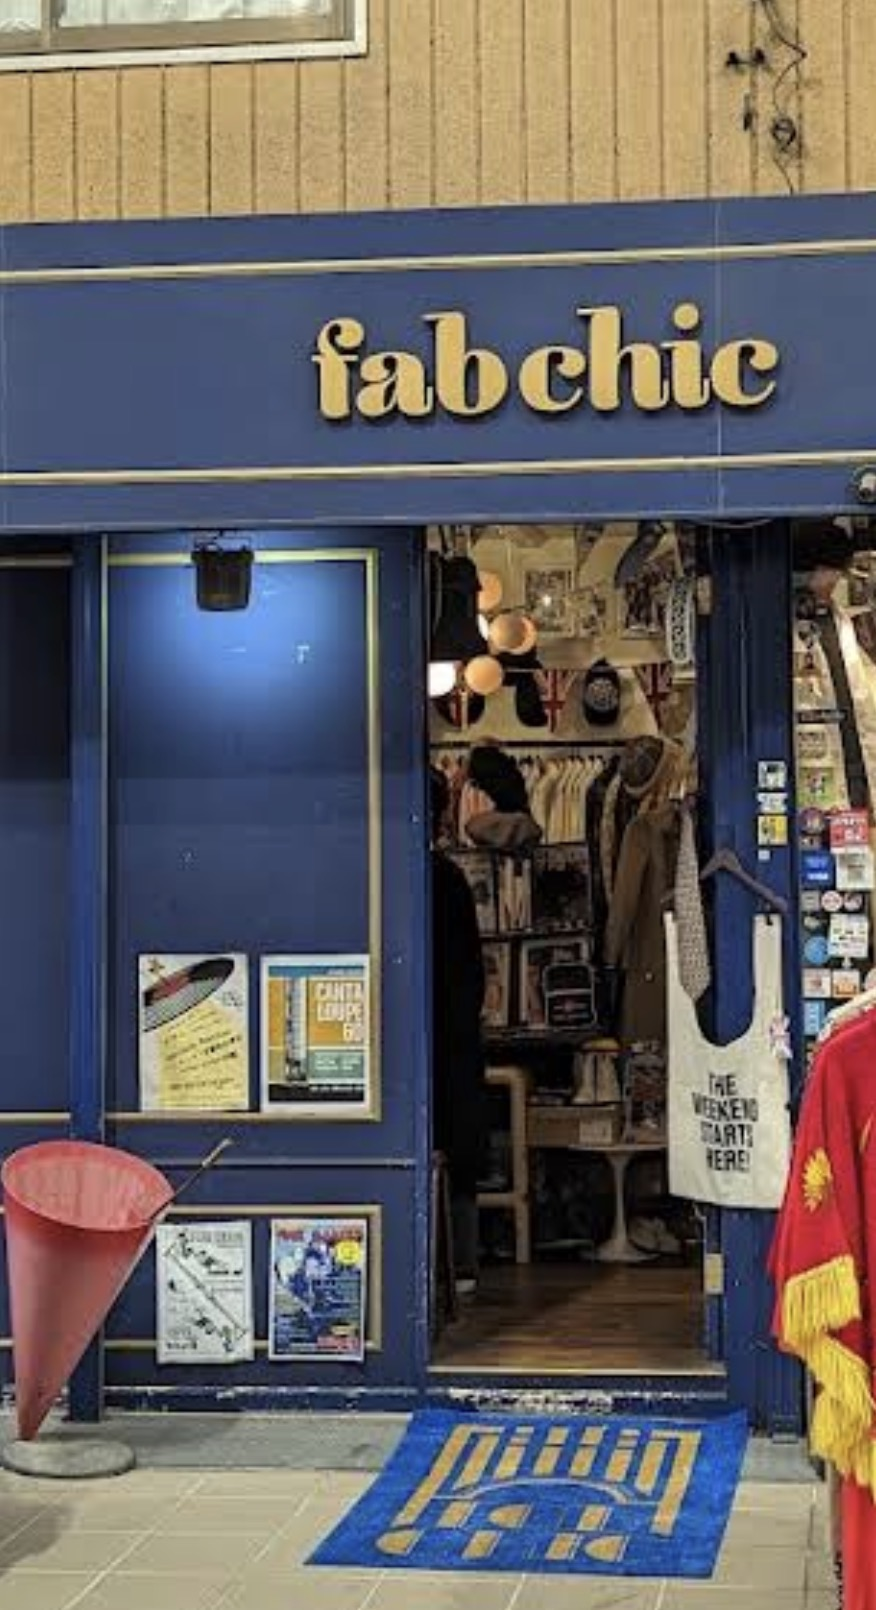
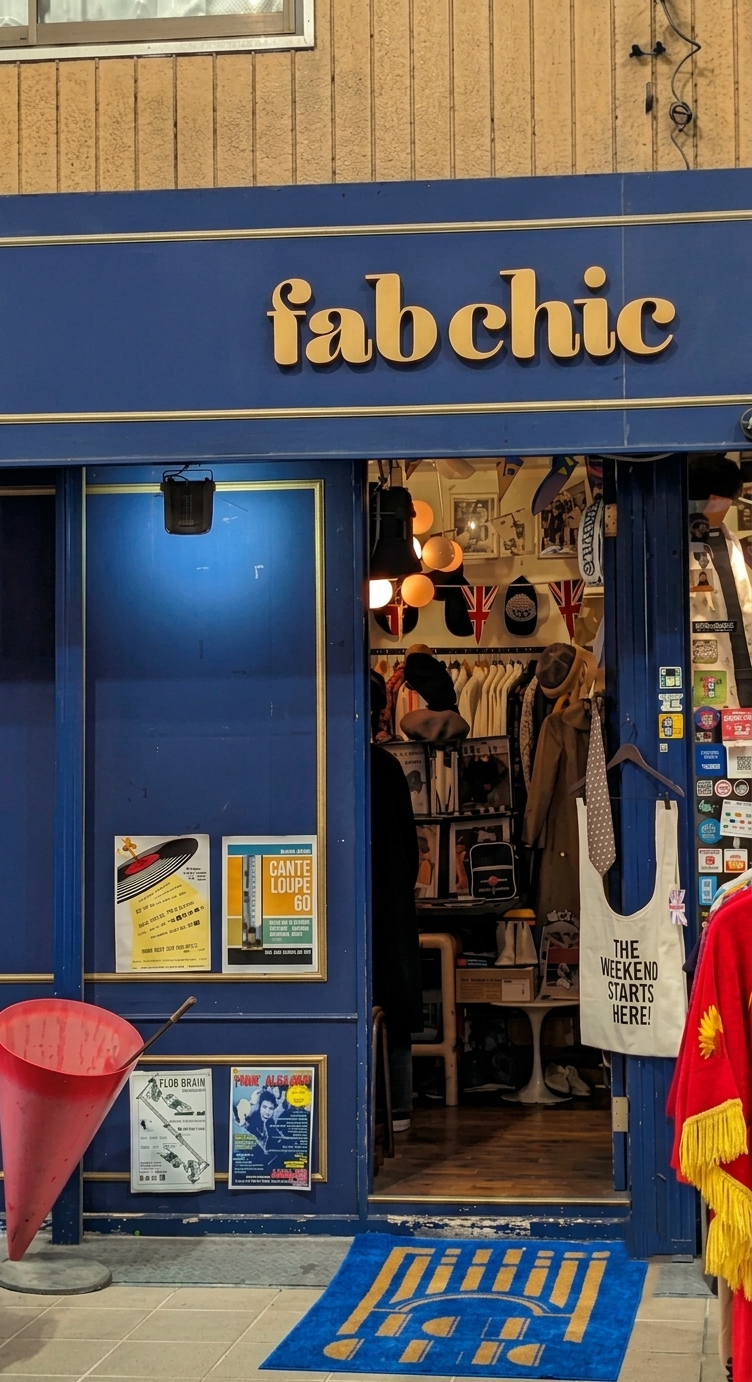
14:50

diff --git a/lib/demo/demo_config.dart b/lib/demo/demo_config.dart
@@ -137,109 +137,29 @@ class DemoConfig {
   ];
 
   // ── opponent（赤）が通るルート ──
-  //   大須観音駅 →（経由地）→ ふくすけや → WEGO 大須店 の徒歩ルートを
-  //   道なりに 100 点でサンプリングしたもの（OSM/OSRM foot、約 876m）。
+  //   大須観音駅 → 手水舎 → ふくすけや → WEGO 大須店 → サーカス の徒歩ルートを
+  //   道なりに 100 点でサンプリングしたもの（OSM/OSRM foot、約 1.4km）。
   static const List<LatLng> opponentRoute = [
-    LatLng(35.160408, 136.898182),
-    LatLng(35.1604049, 136.8980861),
-    LatLng(35.1603298, 136.8980663),
-    LatLng(35.1602502, 136.8980692),
-    LatLng(35.1601706, 136.8980719),
-    LatLng(35.1600911, 136.8980744),
-    LatLng(35.1600115, 136.8980767),
-    LatLng(35.1599319, 136.8980789),
-    LatLng(35.1598524, 136.8980814),
-    LatLng(35.1597728, 136.8980838),
-    LatLng(35.1596932, 136.8980863),
-    LatLng(35.1597047, 136.898109),
-    LatLng(35.1597783, 136.8981126),
-    LatLng(35.1597827, 136.8982098),
-    LatLng(35.159787, 136.898307),
-    LatLng(35.1597914, 136.8984042),
-    LatLng(35.1597957, 136.8985014),
-    LatLng(35.1597409, 136.898534),
-    LatLng(35.159677, 136.8985577),
-    LatLng(35.1595975, 136.8985637),
-    LatLng(35.1595181, 136.8985698),
-    LatLng(35.1595019, 136.8986486),
-    LatLng(35.1595015, 136.898746),
-    LatLng(35.1595011, 136.8988433),
-    LatLng(35.1595008, 136.8989407),
-    LatLng(35.1595005, 136.8990381),
-    LatLng(35.1595002, 136.8991354),
-    LatLng(35.1594994, 136.8992327),
-    LatLng(35.1594973, 136.8993301),
-    LatLng(35.1594646, 136.8993924),
-    LatLng(35.1593933, 136.8994356),
-    LatLng(35.1593159, 136.8994307),
-    LatLng(35.159238, 136.8994107),
-    LatLng(35.1591682, 136.8993989),
-    LatLng(35.1591522, 136.8994943),
-    LatLng(35.1591361, 136.8995896),
-    LatLng(35.1591184, 136.8996845),
-    LatLng(35.1590965, 136.8997781),
-    LatLng(35.1590746, 136.8998717),
-    LatLng(35.1590528, 136.8999653),
-    LatLng(35.1590308, 136.9000589),
-    LatLng(35.1590087, 136.9001524),
-    LatLng(35.1589866, 136.9002459),
-    LatLng(35.1589646, 136.9003395),
-    LatLng(35.1589426, 136.900433),
-    LatLng(35.1589206, 136.9005266),
-    LatLng(35.1588986, 136.9006201),
-    LatLng(35.1588765, 136.9007137),
-    LatLng(35.158855, 136.9008074),
-    LatLng(35.158835, 136.9009016),
-    LatLng(35.1588128, 136.9009951),
-    LatLng(35.1587897, 136.9010883),
-    LatLng(35.1587666, 136.9011814),
-    LatLng(35.1587435, 136.9012746),
-    LatLng(35.1587204, 136.9013678),
-    LatLng(35.1587135, 136.9014489),
-    LatLng(35.1587916, 136.901468),
-    LatLng(35.1588697, 136.9014867),
-    LatLng(35.1589478, 136.9015055),
-    LatLng(35.1590259, 136.9015243),
-    LatLng(35.159104, 136.901543),
-    LatLng(35.1591821, 136.9015618),
-    LatLng(35.1592599, 136.9015819),
-    LatLng(35.1593382, 136.9015989),
-    LatLng(35.1594171, 136.901612),
-    LatLng(35.1594959, 136.9016252),
-    LatLng(35.1595748, 136.9016383),
-    LatLng(35.1596537, 136.9016514),
-    LatLng(35.1597325, 136.9016646),
-    LatLng(35.1598114, 136.9016777),
-    LatLng(35.1598902, 136.9016916),
-    LatLng(35.159949, 136.9017374),
-    LatLng(35.1600277, 136.9017515),
-    LatLng(35.1601065, 136.9017657),
-    LatLng(35.1601852, 136.9017798),
-    LatLng(35.160264, 136.9017939),
-    LatLng(35.1603427, 136.9018081),
-    LatLng(35.1604215, 136.9018222),
-    LatLng(35.1605002, 136.9018368),
-    LatLng(35.1605135, 136.901911),
-    LatLng(35.1605569, 136.9019588),
-    LatLng(35.1606181, 136.9020024),
-    LatLng(35.1606223, 136.9020856),
-    LatLng(35.1606128, 136.9021823),
-    LatLng(35.1606033, 136.9022789),
-    LatLng(35.1605938, 136.9023756),
-    LatLng(35.1605842, 136.9024722),
-    LatLng(35.1605747, 136.9025689),
-    LatLng(35.1605652, 136.9026655),
-    LatLng(35.1605557, 136.9027622),
-    LatLng(35.1605462, 136.9028589),
-    LatLng(35.1605366, 136.9029555),
-    LatLng(35.160529, 136.9030523),
-    LatLng(35.1605467, 136.903028),
-    LatLng(35.1605559, 136.9029314),
-    LatLng(35.1605653, 136.9028347),
-    LatLng(35.1605748, 136.902738),
-    LatLng(35.1605842, 136.9026413),
-    LatLng(35.1605936, 136.9025447),
-    LatLng(35.160603, 136.902448),
+    LatLng(35.160359, 136.898186), LatLng(35.1604119, 136.8982782), LatLng(35.160393, 136.8984064), LatLng(35.1602652, 136.8984135), LatLng(35.1601376, 136.8984218),
+    LatLng(35.1600099, 136.8984308), LatLng(35.1598823, 136.8984396), LatLng(35.1597546, 136.8984481), LatLng(35.1596269, 136.8984566), LatLng(35.1594993, 136.8984652),
+    LatLng(35.1593716, 136.8984738), LatLng(35.1593086, 136.8985742), LatLng(35.1592824, 136.8987273), LatLng(35.1592562, 136.8988804), LatLng(35.1592301, 136.8990335),
+    LatLng(35.1592041, 136.8991866), LatLng(35.1591782, 136.8993397), LatLng(35.1591524, 136.8994929), LatLng(35.1591267, 136.8996461), LatLng(35.1592422, 136.8996849),
+    LatLng(35.1593676, 136.8997157), LatLng(35.1594929, 136.8997465), LatLng(35.1594037, 136.8997247), LatLng(35.1592784, 136.8996938), LatLng(35.1591531, 136.8996629),
+    LatLng(35.1590977, 136.8997727), LatLng(35.1590626, 136.8999231), LatLng(35.1590273, 136.9000734), LatLng(35.1589076, 136.9000549), LatLng(35.1587821, 136.9000248),
+    LatLng(35.1586566, 136.8999947), LatLng(35.1585311, 136.8999652), LatLng(35.1584186, 136.8999672), LatLng(35.1583936, 136.9001205), LatLng(35.1583686, 136.9002739),
+    LatLng(35.1583436, 136.9004273), LatLng(35.1583186, 136.9005807), LatLng(35.1583675, 136.9006769), LatLng(35.1583447, 136.9008265), LatLng(35.1583176, 136.9009793),
+    LatLng(35.1582905, 136.9011321), LatLng(35.1582633, 136.901285), LatLng(35.1582623, 136.9014291), LatLng(35.158387, 136.9014634), LatLng(35.1585117, 136.9014978),
+    LatLng(35.1586364, 136.9015323), LatLng(35.1587617, 136.9015636), LatLng(35.1588872, 136.9015932), LatLng(35.1590128, 136.9016228), LatLng(35.1591383, 136.9016524),
+    LatLng(35.1592644, 136.9016785), LatLng(35.1593905, 136.9017039), LatLng(35.1595167, 136.9017294), LatLng(35.1596429, 136.9017544), LatLng(35.1597694, 136.9017768),
+    LatLng(35.159896, 136.9017989), LatLng(35.1600226, 136.9018201), LatLng(35.1601493, 136.9018413), LatLng(35.1602762, 136.9018609), LatLng(35.1604032, 136.9018783),
+    LatLng(35.1605303, 136.901896), LatLng(35.1606094, 136.9019601), LatLng(35.1605951, 136.9021155), LatLng(35.1605803, 136.9022708), LatLng(35.1605656, 136.9024262),
+    LatLng(35.1605508, 136.9025815), LatLng(35.1605359, 136.9027368), LatLng(35.1605211, 136.9028922), LatLng(35.1605063, 136.9030475), LatLng(35.1604913, 136.9032028),
+    LatLng(35.1604762, 136.9033581), LatLng(35.1604611, 136.9035134), LatLng(35.1604165, 136.9036258), LatLng(35.1602889, 136.9036174), LatLng(35.1601612, 136.903609),
+    LatLng(35.1600335, 136.9036005), LatLng(35.159906, 136.9035896), LatLng(35.1597786, 136.9035765), LatLng(35.1596512, 136.9035633), LatLng(35.1595238, 136.9035502),
+    LatLng(35.1593964, 136.9035372), LatLng(35.1592689, 136.9035245), LatLng(35.1591415, 136.9035118), LatLng(35.1590141, 136.903499), LatLng(35.1588867, 136.9034857),
+    LatLng(35.1587593, 136.9034722), LatLng(35.1586319, 136.9034588), LatLng(35.1585045, 136.9034453), LatLng(35.1583772, 136.9034318), LatLng(35.1582498, 136.9034175),
+    LatLng(35.1581225, 136.9034033), LatLng(35.1579952, 136.903389), LatLng(35.1580052, 136.9032334), LatLng(35.1580153, 136.9030775), LatLng(35.1580255, 136.9029216),
+    LatLng(35.1580358, 136.9027657), LatLng(35.1580462, 136.9026098), LatLng(35.1580561, 136.9024539), LatLng(35.1581369, 136.9024085), LatLng(35.158263, 136.902434),
   ];
 
   // 各座標に到達したときに「起動したカメラ」で表示する写真。
@@ -252,6 +172,7 @@ class DemoConfig {
     'assets/demo_photos/red_1.png',
     'assets/demo_photos/red_2.png',
     'assets/demo_photos/red_3.png',
+    'assets/demo_photos/red_4.png',
   ];
 
   // ── スケジュール（対戦開始からの経過「デモ秒」）──
@@ -297,9 +218,9 @@ class DemoConfig {
   //   別の場所で止めたいときは、経路上の任意のインデックスに差し替える。
   //   各撮影スポット（Google Maps の目的地）に最も近い経路点に合わせてある:
   //     challenger: サンレモ(37) → フラミンゴ名古屋店(72) → ファブシック(99)
-  //     opponent  : 手水舎(29) → ふくすけや(40) → WEGO大須店(99)
+  //     opponent  : 手水舎(22) → ふくすけや(27) → WEGO大須店(64) → サーカス(99)
   static const List<int> challengerStopIndices = [37, 72, 99];
-  static const List<int> opponentStopIndices = [29, 40, 99];
+  static const List<int> opponentStopIndices = [22, 27, 64, 99];
 
   /// 対戦の制限時間（デモ秒）。15 分。
   static const double battleLimitSec = 900;

diff --git a/lib/battle/demo_camera_screen.dart b/lib/battle/demo_camera_screen.dart
@@ -35,6 +35,7 @@ class DemoCameraScreen extends StatefulWidget {
     'assets/demo_photos/red_1.png',
     'assets/demo_photos/red_2.png',
     'assets/demo_photos/red_3.png',
+    'assets/demo_photos/red_4.png',
   ];
 
   /// 撮影ごとに順番に切り替えるためのカウンタ（色ごと）。
